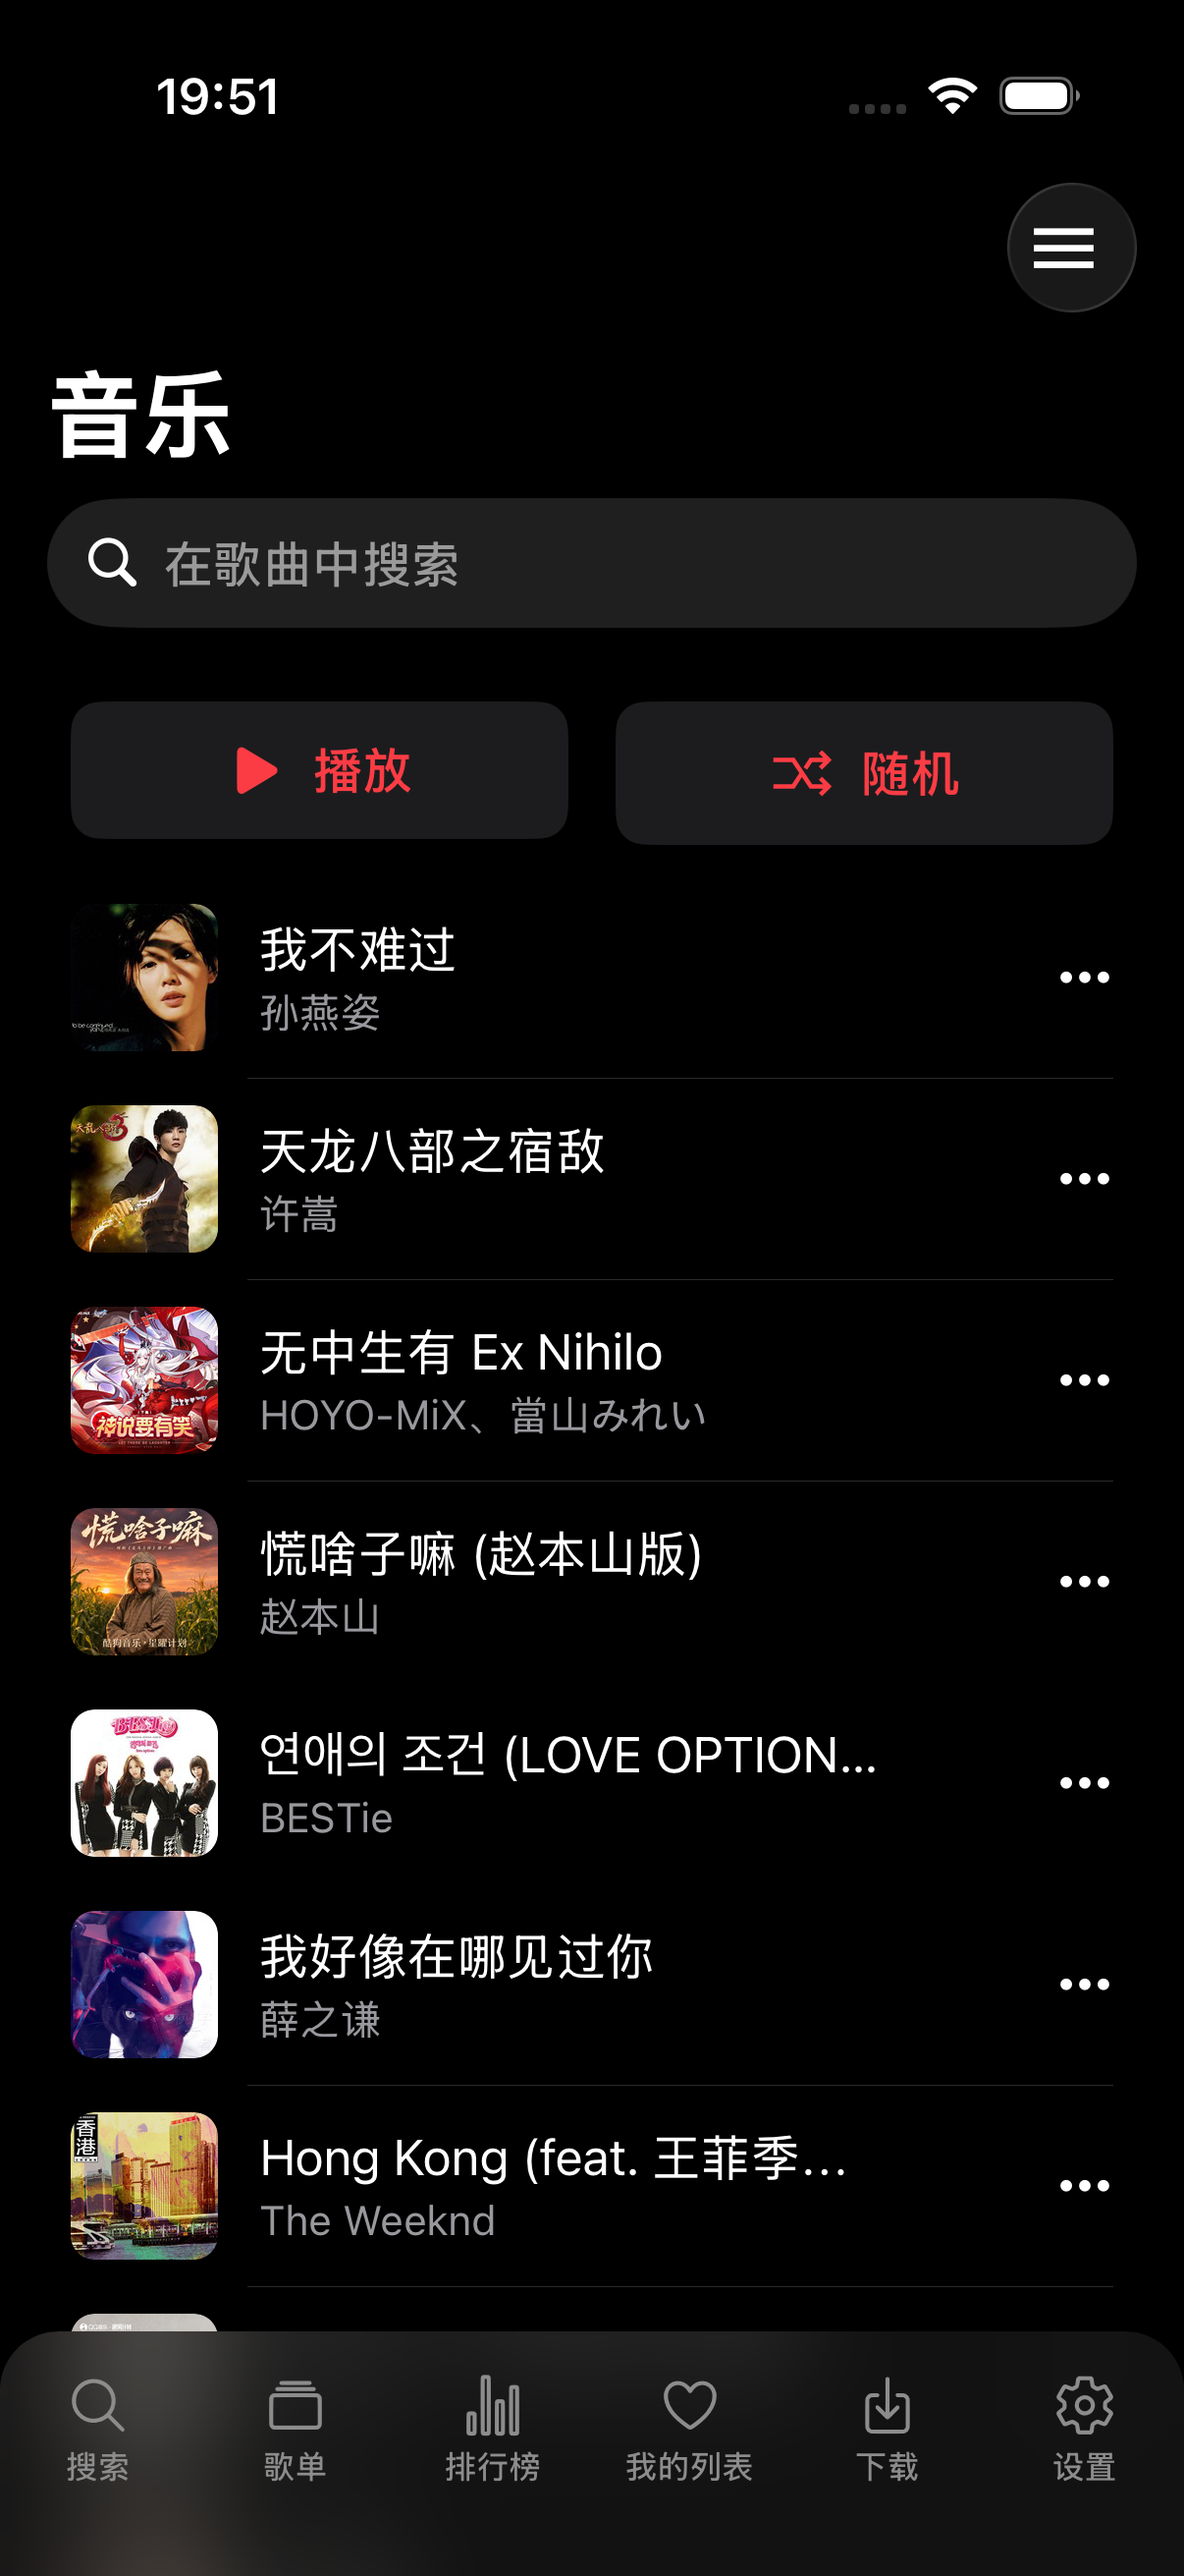
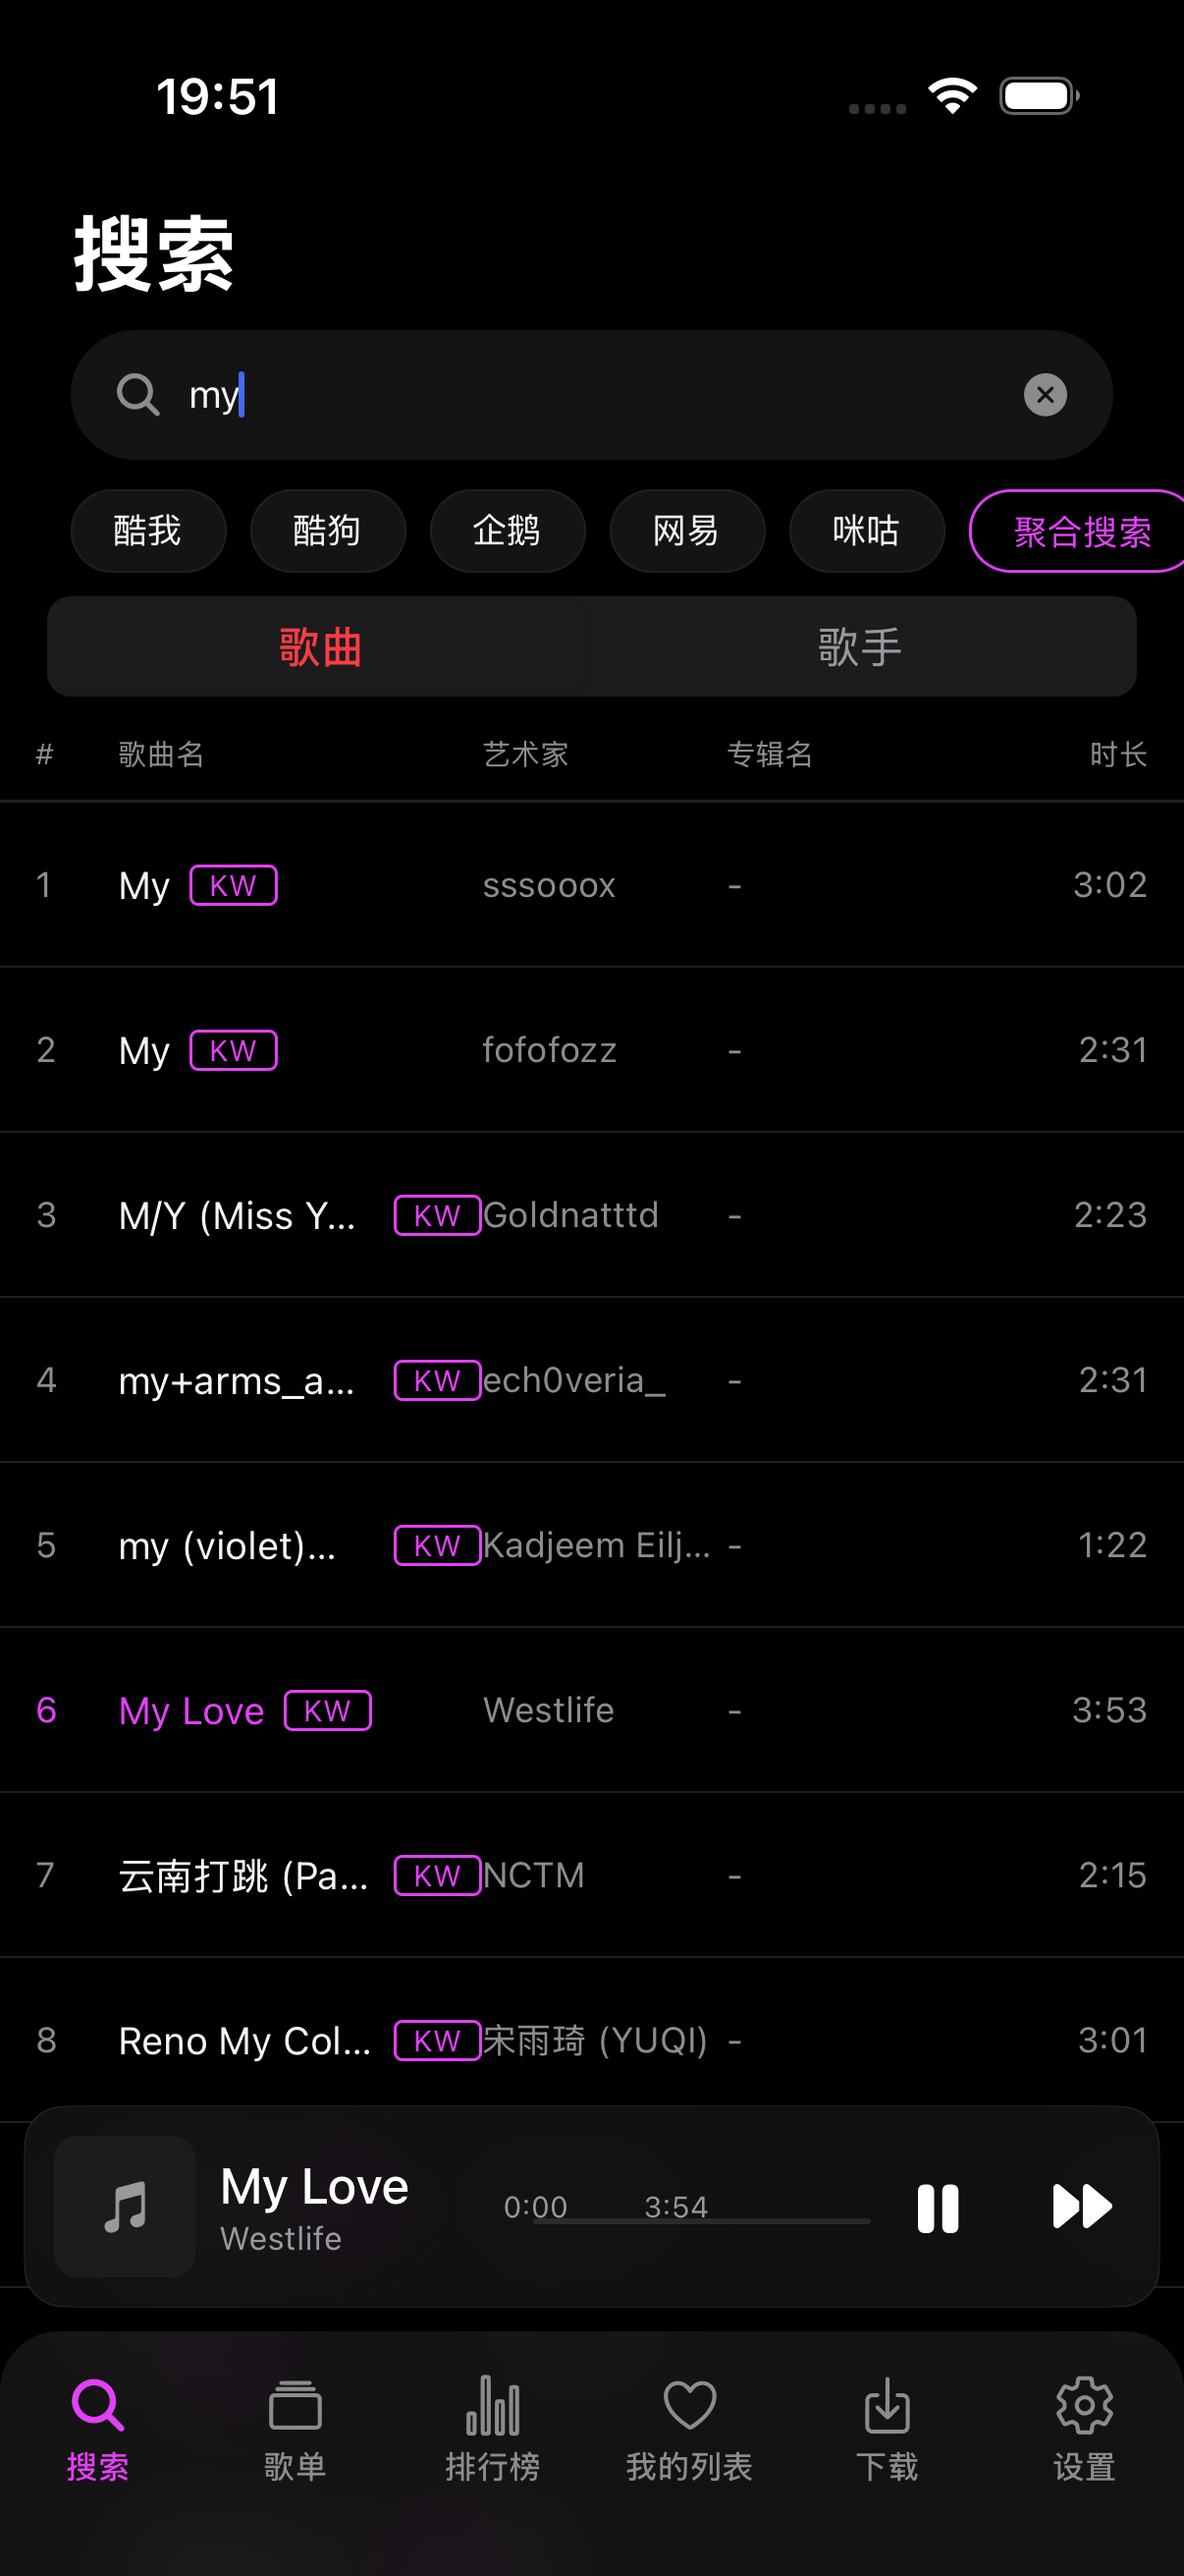
feat(settings): 热搜接入 + 其他分区（版本/日志/清空）

diff --git a/src/app/settingSection/[section].tsx b/src/app/settingSection/[section].tsx
@@ -108,6 +108,60 @@ const ListSection = () => {
 	)
 }
 
+const OtherSection = () => {
+	const { isDark } = useAppTheme()
+	const c = macPalette(!!isDark)
+	const insets = useSafeAreaInsets()
+	const router = useRouter()
+	const [confirm, setConfirm] = React.useState(false)
+	const [status, setStatus] = React.useState('')
+	const version = '1.0.0'
+	const build = '1'
+
+	const wipeAll = async() => {
+		try {
+			const FS = await import('expo-file-system/legacy')
+			const cm = await import('@/player/CacheManager')
+			await cm.clearCache()
+			await FS.deleteAsync(`${FS.documentDirectory}mmkv`, { idempotent: true }).catch(() => undefined)
+			setStatus('已清空缓存与设置，请手动重启 App 生效')
+		} catch (err: any) {
+			setStatus(`清空失败：${err?.message ?? err}`)
+		}
+		setConfirm(false)
+	}
+
+	return (
+		<>
+			<SettingRow label="App 版本"><Text style={{ color: c.textMuted, fontSize: macFont.body }}>{version} ({build})</Text></SettingRow>
+			<SettingRow label="播放引擎"><Text style={{ color: c.textMuted, fontSize: macFont.body }}>RNTP + JSC</Text></SettingRow>
+			<SettingRow label="查看日志">
+				<Pressable onPress={() => router.push('/logScreen' as any)}>
+					<Text style={{ color: c.primary, fontSize: macFont.body }}>打开 ›</Text>
+				</Pressable>
+			</SettingRow>
+			<View style={{ paddingHorizontal: macSpace.pageX, paddingTop: 16 }}>
+				<Pressable onPress={() => setConfirm(true)} style={({ pressed }) => ({ paddingVertical: 12, paddingHorizontal: 16, borderRadius: 10, backgroundColor: pressed ? c.fillMuted : c.fillSubtle })}>
+					<Text style={{ color: c.danger, fontSize: macFont.body }}>清空所有数据</Text>
+				</Pressable>
+				{status ? <Text style={{ color: c.primary, fontSize: macFont.caption, marginTop: 8 }}>{status}</Text> : null}
+			</View>
+			{confirm ? (
+				<View style={{ position: 'absolute', left: 0, right: 0, top: 0, bottom: 0, backgroundColor: 'rgba(0,0,0,0.6)', alignItems: 'center', justifyContent: 'center', padding: 24 }}>
+					<View style={{ backgroundColor: c.bg, borderRadius: 12, padding: 20, width: '100%' }}>
+						<Text style={{ color: c.textStrong, fontSize: macFont.body, marginBottom: 8 }}>确认清空所有数据？</Text>
+						<Text style={{ color: c.textMuted, fontSize: macFont.caption, marginBottom: 16 }}>将删除缓存与全部设置，不可撤销。</Text>
+						<View style={{ flexDirection: 'row', justifyContent: 'flex-end', gap: 16 }}>
+							<Pressable onPress={() => setConfirm(false)}><Text style={{ color: c.textMuted, fontSize: macFont.body }}>取消</Text></Pressable>
+							<Pressable onPress={wipeAll}><Text style={{ color: c.danger, fontSize: macFont.body }}>确认清空</Text></Pressable>
+						</View>
+					</View>
+				</View>
+			) : null}
+		</>
+	)
+}
+
 const SearchSection = () => {
 	const [hot, setHot] = useSetting('search.isShowHotSearch', true)
 	const [history, setHistory] = useSetting('search.isShowHistorySearch', true)
@@ -468,6 +522,7 @@ const SettingsSectionScreen = () => {
 		if (section === 'detail') return <PlayDetailSection />
 		if (section === 'search') return <SearchSection />
 		if (section === 'ocd') return <OdcSection />
+		if (section === 'other') return <OtherSection />
 		return null
 	})()
 

diff --git a/src/app/(tabs)/search/index.tsx b/src/app/(tabs)/search/index.tsx
@@ -57,6 +57,7 @@ const SearchlistsScreen = () => {
 	const [autoFocus] = useSetting('search.isFocusSearchBox', false)
 	const [autoClearInput] = useSetting('odc.isAutoClearSearchInput', false)
 	const [autoClearList] = useSetting('odc.isAutoClearSearchList', false)
+	const [hotWords, setHotWords] = useState<string[]>([])
 	const [history, setHistory] = useState<string[]>(() => { const raw = getSetting<any>('search.history', []); return Array.isArray(raw) ? raw : [] })
 	// 深链参数 ?q= 仅触发一次搜索（jkmusic://search?q=周杰伦），之后仍由搜索框驱动
 	const routeParams = useLocalSearchParams<{ q?: string }>()
@@ -155,6 +156,20 @@ const SearchlistsScreen = () => {
 			fetchSearchResults(page + 1)
 		}
 	}, [isLoading, hasMore, page, fetchSearchResults, search])
+
+	React.useEffect(() => {
+		let cancelled = false
+		void (async() => {
+			try {
+				const { getHotSearch } = await import('@/jk/musicSdk')
+				const words = await getHotSearch()
+				if (!cancelled) setHotWords(words)
+			} catch (err) {
+				logInfo('[search] 热搜失败', String((err as any)?.message ?? err))
+			}
+		})()
+		return () => { cancelled = true }
+	}, [])
 
 	const rememberHistory = (kw: string) => {
 		if (!kw.trim()) return
@@ -274,7 +289,17 @@ const SearchlistsScreen = () => {
 						{showHot ? (
 							<View style={{ marginBottom: showHistory ? 14 : 0 }}>
 								<Text style={{ color: mac.textStrong, fontSize: macFont.body, fontWeight: '600', marginBottom: 8 }}>热门搜索</Text>
-								<Text style={{ color: mac.textMuted, fontSize: macFont.caption }}>暂无热门搜索</Text>
+								{hotWords.length === 0 ? (
+									<Text style={{ color: mac.textMuted, fontSize: macFont.caption }}>暂无热门搜索</Text>
+								) : (
+									<View style={{ flexDirection: 'row', flexWrap: 'wrap', gap: 8 }}>
+										{hotWords.map(w => (
+											<Pressable key={w} onPress={() => setSearch(w)} style={{ paddingHorizontal: 12, paddingVertical: 5, borderRadius: macRadius.pill, borderWidth: 0.5, borderColor: mac.divider }}>
+												<Text style={{ color: mac.text, fontSize: macFont.caption }}>{w}</Text>
+											</Pressable>
+										))}
+									</View>
+								)}
 							</View>
 						) : null}
 						{showHistory ? (

diff --git a/src/jk/musicSdk.ts b/src/jk/musicSdk.ts
@@ -1,3 +1,4 @@
+import { logInfo, logError } from '@/helpers/logger'
 // 确保 Buffer / TextEncoder 在任何 musicSdk 模块求值前就绪
 import '@/shims/globalPolyfills'
 /**
@@ -233,6 +234,31 @@ export const getLyric = async(music: JKMusic) => {
 	const req: any = mod.getLyric(target, true)
 	const res = req && typeof req.then === 'function' ? await req : await (req?.promise ?? req)
 	return res
+}
+
+/**
+ * 热门搜索（包装 kw 的 hotSearch 导出，不改 SDK 内部实现）
+ * 30 分钟内存缓存
+ */
+let hotSearchCache: { at: number, words: string[] } | null = null
+export const getHotSearch = async(): Promise<string[]> => {
+	const now = Date.now()
+	if (hotSearchCache && now - hotSearchCache.at < 30 * 60 * 1000) return hotSearchCache.words
+	try {
+		const mod: any = (musicSdk as any).kw
+		let list: any[] = []
+		if (mod?.hotSearch?.getList) {
+			const res: any = await mod.hotSearch.getList()
+			list = res?.list ?? []
+		}
+		const words = list.map((x: any) => (typeof x === 'string' ? x : x?.name ?? '')).filter(Boolean).slice(0, 12)
+		hotSearchCache = { at: now, words }
+		logInfo('[hotsearch] ok count=' + words.length)
+		return words
+	} catch (err) {
+		logError('[hotsearch] failed', String((err as any)?.message ?? err))
+		return []
+	}
 }
 
 export default {
